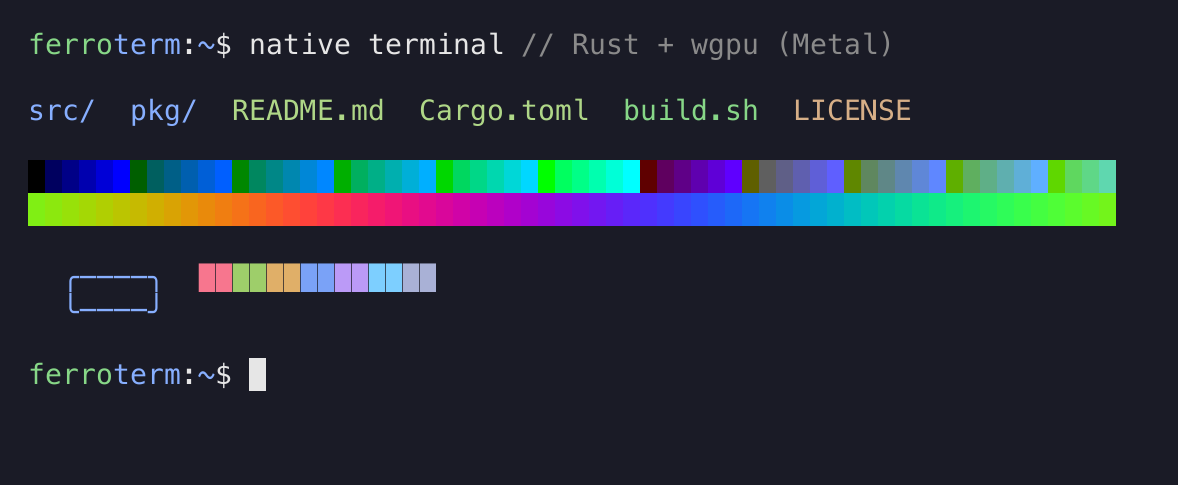
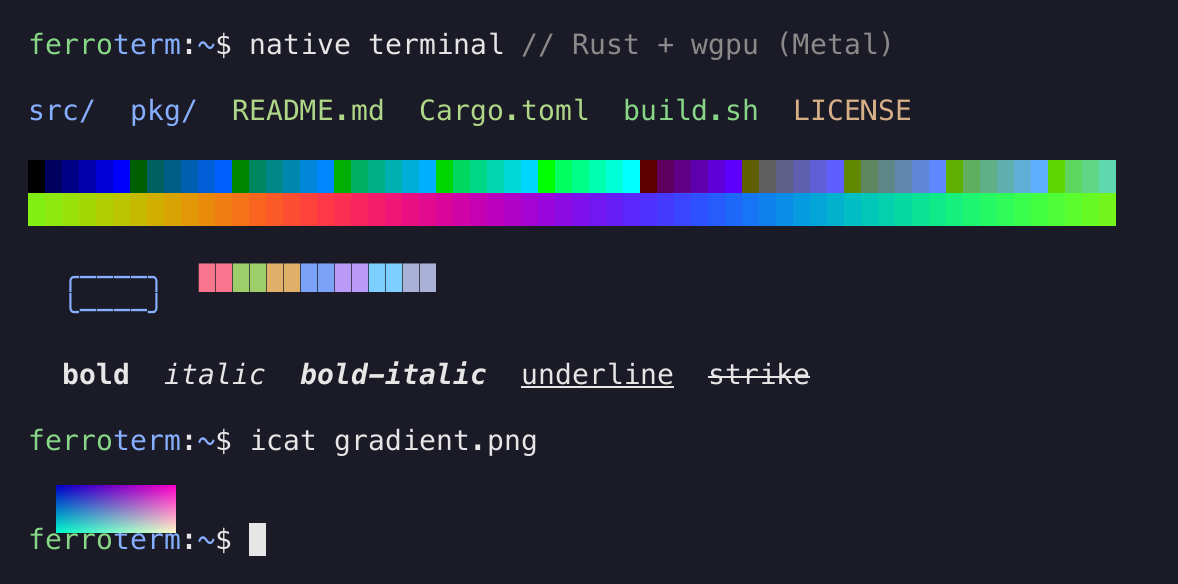
Show styled text and an inline image in the native screenshot
The native-renderer screenshot tool now exercises the features added this
session: it feeds a bold / italic / bold-italic / underline / strikethrough
line and a Kitty RGBA gradient image, renders both the cell and image passes
to the offscreen texture, and regenerates docs/screenshots/native.png. The
scene sets the core's cell-pixel size so the image lays out in whole cells.

Changed region(s): [[0.0, 0.1546, 0.9474, 0.6804], [0.0306, 0.7423, 0.4584, 0.9588], [0.0306, 0.0619, 0.764, 0.1237]]

diff --git a/apps/native/examples/shot.rs b/apps/native/examples/shot.rs
@@ -4,19 +4,57 @@
 //!
 //!   cargo run --release --example shot -- out.png
 //!
-//! The scene is limited to what the native renderer draws today (colors, plain
-//! text, box-drawing, underline/strikethrough); it avoids CJK/emoji, which the
-//! bundled monospace lacks.
+//! The scene shows what the native renderer draws today (colors, plain text,
+//! box-drawing, bold/italic, underline/strikethrough and an inline image); it
+//! avoids CJK/emoji, which the bundled monospace lacks.
 
 use std::io::BufWriter;
 
 use ferroterm_core::Terminal;
 use ferroterm_native::atlas::Atlas;
+use ferroterm_native::images::{ImageLayer, ImageQuad};
 use ferroterm_native::palette::{Palette, Theme};
 use ferroterm_native::renderer::Renderer;
 use ferroterm_native::snapshot::Grid;
 
 const FMT: wgpu::TextureFormat = wgpu::TextureFormat::Rgba8Unorm;
+
+/// Standard base64 (Kitty's wire encoding).
+fn b64(data: &[u8]) -> String {
[1 lines of base64/hex data omitted]
+    let mut out = String::new();
+    for c in data.chunks(3) {
+        let n = (c[0] as u32) << 16
+            | (*c.get(1).unwrap_or(&0) as u32) << 8
+            | *c.get(2).unwrap_or(&0) as u32;
+        out.push(T[(n >> 18 & 63) as usize] as char);
+        out.push(T[(n >> 12 & 63) as usize] as char);
+        out.push(if c.len() > 1 {
+            T[(n >> 6 & 63) as usize] as char
+        } else {
+            '='
+        });
+        out.push(if c.len() > 2 {
+            T[(n & 63) as usize] as char
+        } else {
+            '='
+        });
+    }
+    out
+}
+
+/// A Kitty transmit-and-display escape for a `w`x`h` RGBA gradient image.
+fn kitty_gradient(w: u32, h: u32) -> String {
+    let mut px = Vec::with_capacity((w * h * 4) as usize);
+    for y in 0..h {
+        for x in 0..w {
+            let r = (255 * x / w.max(1)) as u8;
+            let g = (255 * y / h.max(1)) as u8;
+            px.extend_from_slice(&[r, g, 200, 255]);
+        }
+    }
+    format!("\x1b_Ga=T,f=32,s={w},v={h};{}\x1b\\", b64(&px))
+}
 
 fn scene(cols: usize) -> String {
     let mut s = String::from("\x1b[H");
@@ -49,6 +87,15 @@ fn scene(cols: usize) -> String {
     s.push_str(
         "\r\n  \x1b[38;5;111m\u{2570}\u{2500}\u{2500}\u{2500}\u{2500}\u{256f}\x1b[0m\r\n\r\n",
     );
+    // Text styles the native renderer now supports.
+    s.push_str(
+        "  \x1b[1mbold\x1b[0m  \x1b[3mitalic\x1b[0m  \x1b[1;3mbold-italic\x1b[0m  \x1b[4munderline\x1b[0m  \x1b[9mstrike\x1b[0m\r\n\r\n",
+    );
+    // An inline image (Kitty RGBA), which the image layer composites over cells.
+    s.push_str(&format!(
+        "{p}:\x1b[38;5;111m~\x1b[0m$ icat gradient.png\r\n"
+    ));
+    s.push_str(&kitty_gradient(120, 48));
     s.push_str(&format!("{p}:\x1b[38;5;111m~\x1b[0m$ "));
     s
 }
@@ -79,9 +126,11 @@ fn main() {
 
     let mut atlas = Atlas::new(28.0); // large for a crisp screenshot
     let pal = Palette::new(Theme::default());
-    let (cols, rows) = (66usize, 13usize);
+    let (cols, rows) = (66usize, 16usize);
 
     let mut term = Terminal::new(cols, rows, 100);
+    // Tell the core the cell size so the inline image lays out in whole cells.
+    term.set_cell_pixels(atlas.cell_w as usize, atlas.cell_h as usize);
     term.feed(scene(cols).as_bytes());
     let mut grid = Grid::default();
     let mut snap = Vec::new();
@@ -120,6 +169,38 @@ fn main() {
         true,
         pal.theme.bg,
     );
+
+    // Inline images: draw the scene's RGBA placements over the cells.
+    let mut images = ImageLayer::new(&device, FMT);
+    images.set_screen(w as f32, h as f32, margin as f32, margin as f32);
+    let cw = atlas.cell_w as f32;
+    let ch = atlas.cell_h as f32;
+    let placements = term.image_placements();
+    let mut owned: Vec<(u32, u32, u32, f32, f32, Vec<u8>)> = Vec::new();
+    for p in placements.chunks(5) {
+        let (id, row, col, iw, ih) = (p[0] as u32, p[1], p[2], p[3] as u32, p[4] as u32);
+        let rgba = term.image_rgba(id);
+        if rgba.is_empty() {
+            continue;
+        }
+        let x = margin as f32 + col as f32 * cw;
+        let y = margin as f32 + row as f32 * ch;
+        owned.push((id, iw, ih, x, y, rgba));
+    }
+    let quads: Vec<ImageQuad> = owned
+        .iter()
+        .map(|(id, iw, ih, x, y, rgba)| ImageQuad {
+            id: *id,
+            src_w: *iw,
+            src_h: *ih,
+            x: *x,
+            y: *y,
+            w: *iw as f32,
+            h: *ih as f32,
+            rgba,
+        })
+        .collect();
+    images.render(&device, &queue, &view, &quads);
 
     // Read back and repack to tight RGBA rows.
     let padded = (w * 4).div_ceil(256) * 256;